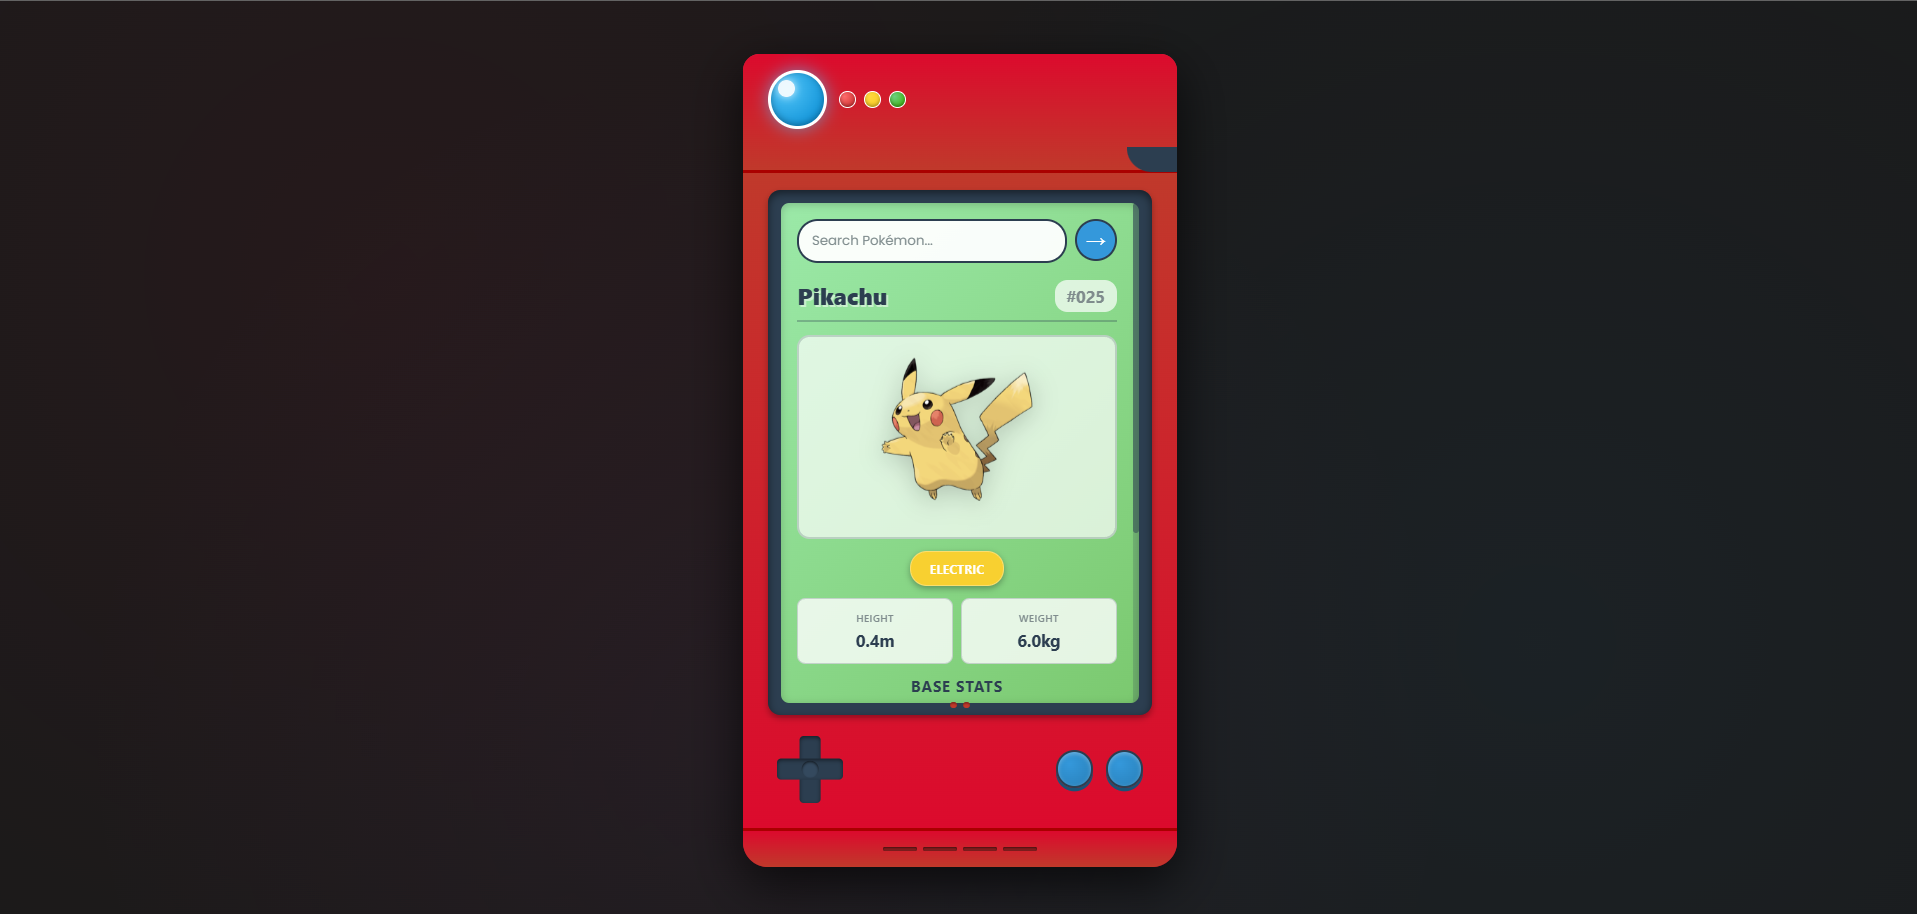
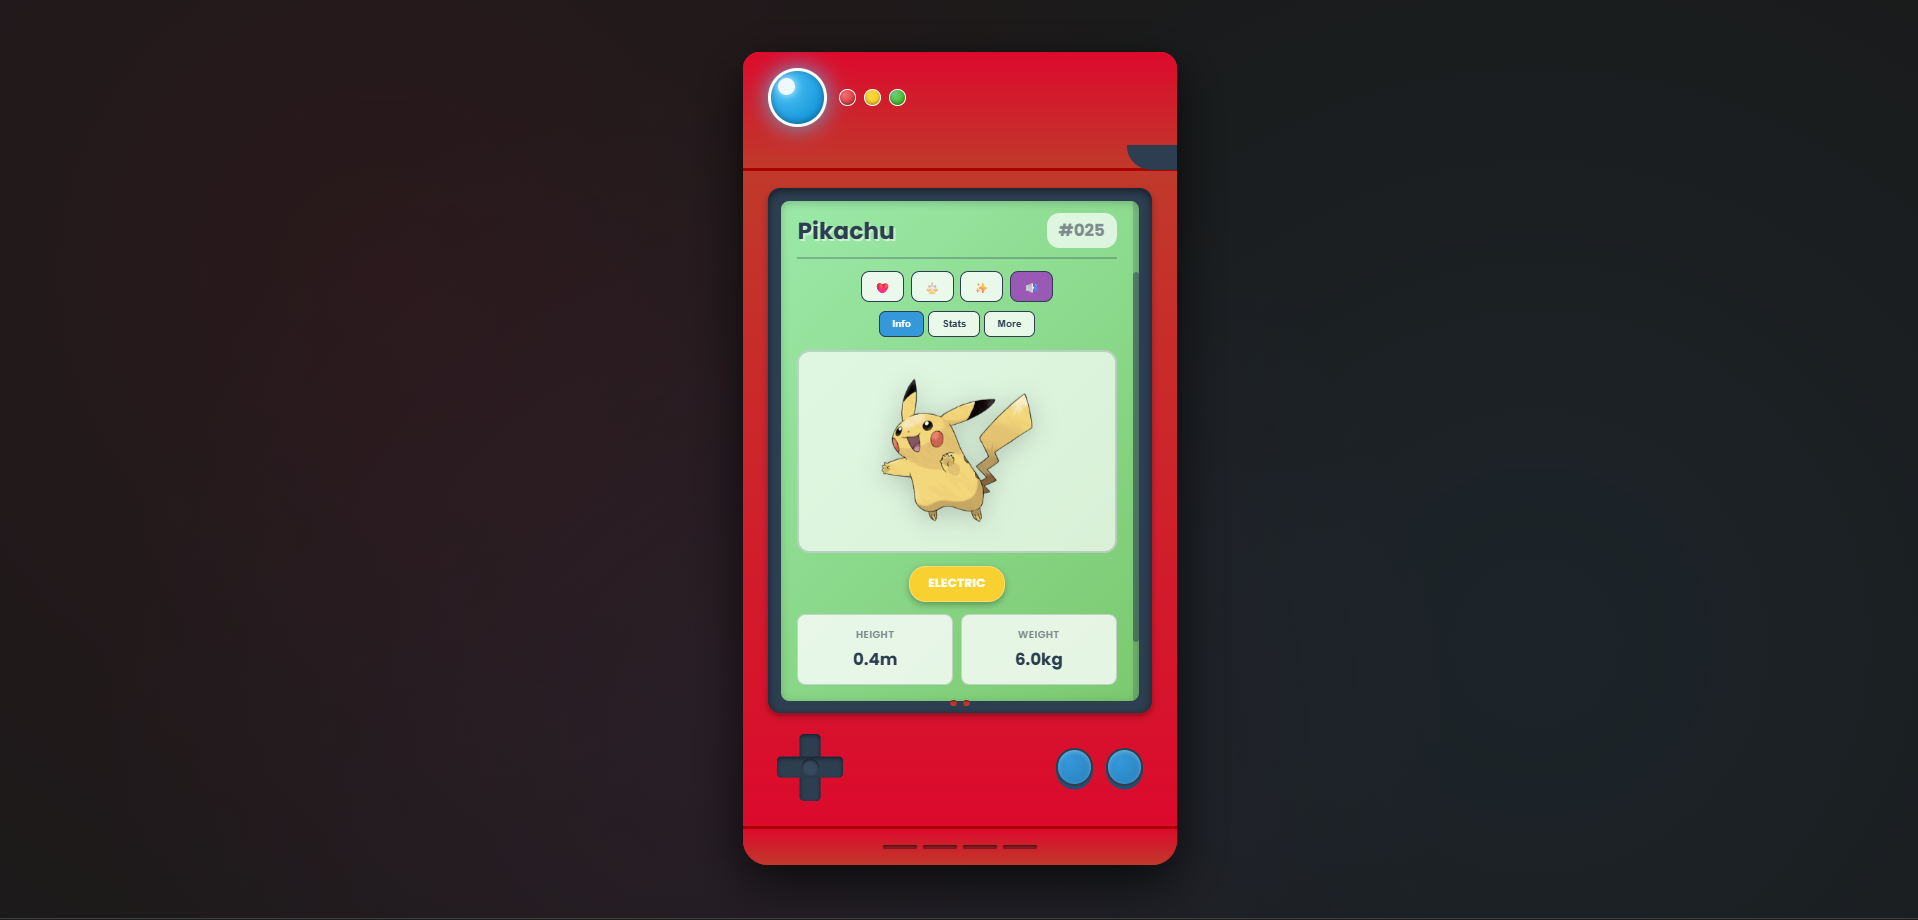
feat: add Weather App project
refactor: rework PokeSearch and Gacha projects
- updated project images
- minor details edits

Changed region(s): [[0.3693, 0.1532, 0.6155, 0.9497], [0.4001, 0.0306, 0.5848, 0.1532]]

diff --git a/src/data/projectsData.js b/src/data/projectsData.js
@@ -5,22 +5,30 @@ const projectsData = [
         title: "Food Ordering System",
         description: "A full-stack Food Ordering System built with the MERN stack and Vite.",
         image: ProjectsImg.FoodOrderingSystemImg,
-        techStack: ["MERN", "JWT", "Socket.IO", "RESTful API"],
+        techStack: ["MERN", "JWT", "Redux", "Socket.IO", "Cloudinary", "Axios", "Framer Motion"],
         githubLink: "https://github.com/VawnDyu/foodorderingsystem",
     },
     {
         title: "Capstone II Project",
-        description: "Payroll System with Generated QR Code for Employee Attendance Monitoring",
+        description: "Payroll System with Generated QR Code for Employee Attendance Monitoring.",
         image: ProjectsImg.Capstone2Img,
         techStack: ["SCSS", "Javascript", "PHP", "MySQL"],
         githubLink: "https://github.com/VawnDyu/Capstone-Project",
     },
     {
-      title: "Capstone I Project",
-      description: "Barangay Clearance System and Queuing System",
-      image: ProjectsImg.Capstone1Img,
-      techStack: ["VB.Net", "Crystal Reports", "MySQL"],
-      githubLink: "https://github.com/VawnDyu/Barangay-Clearance-System",
+        title: "Capstone I Project",
+        description: "Barangay Clearance System and Queuing System.",
+        image: ProjectsImg.Capstone1Img,
+        techStack: ["VB.Net", "Crystal Reports", "MySQL"],
+        githubLink: "https://github.com/VawnDyu/Barangay-Clearance-System",
+    },
+    {
+        title: "Weather App",
+        description: "A minimalist weather app providing real-time weather data for any city.",
+        image: ProjectsImg.WeatherAppImg,
+        techStack: ["React", "CSS", "Typescript", "Vite", "OpenWeatherMap API"],
+        liveLink: "https://vawndyu.github.io/weather-app",
+        githubLink: "https://github.com/VawnDyu/weather-app",
     },
     {
         title: "Moon Chess",
@@ -34,7 +42,7 @@ const projectsData = [
         title: "Pet Care Simulator",
         description: "A cute virtual pet simulator — feed, play, and rest with your digital companion!",
         image: ProjectsImg.PetCareSimImg,
-        techStack: ["React", "CSS", "Javascript", "Vite"],
+        techStack: ["React", "CSS", "Vite"],
         liveLink: "https://vawndyu.github.io/Pet-Care-Simulator",
         githubLink: "https://github.com/VawnDyu/Pet-Care-Simulator",
     },
@@ -47,41 +55,41 @@ const projectsData = [
     },
     {
         title: "Guess the Picture",
-        description: "Guess the Picture is a kid interactive game with timer and scoreboard",
+        description: "A kid interactive game with timer and scoreboard.",
         image: ProjectsImg.GTPImg,
-        techStack: ["React", "CSS", "Javascript", "Vite"],
+        techStack: ["React", "CSS", "Vite"],
         liveLink: "https://vawndyu.github.io/Guess-the-picture",
         githubLink: "https://github.com/VawnDyu/Guess-the-picture",
     },
     {
         title: "Doodle's Portfolio",
-        description: "Doodle's Commissioned Portfolio for Social Media Assets",
+        description: "Doodle's Commissioned Portfolio for Social Media Assets.",
         image: ProjectsImg.DoodleImg,
-        techStack: ["React", "CSS", "Javascript", "Vite"],
+        techStack: ["HTML", "CSS", "Javascript"],
         liveLink: "https://vawndyu.github.io/Doodles-Portfolio",
         githubLink: "https://github.com/VawnDyu/Doodles-Portfolio",
     },
     {
-        title: "Poke-Search",
-        description: "A PokeDex that you can search any pokemon you want.",
+        title: "PokéSearch",
+        description: "A PokéDex that you can search any pokemon you want.",
         image: ProjectsImg.PokeSearchImg,
-        techStack: ["React", "Vite", "PokeAPI"],
+        techStack: ["React", "CSS", "Vite", "PokeAPI"],
         liveLink: "https://vawndyu.github.io/PokeSearch",
         githubLink: "https://github.com/VawnDyu/PokeSearch",
     },
     {
-        title: "Gacha",
-        description: "A Gacha game that counts the amount of your gacha pulls.",
+        title: "Gacha Simulator",
+        description: "A gacha simulator with item pulls, selling, and achievement unlocking.",
         image: ProjectsImg.GachaImg,
-        techStack: ["React", "CSS", "Javascript"],
+        techStack: ["React", "CSS", "Vite"],
         liveLink: "https://vawndyu.github.io/Gacha",
         githubLink: "https://github.com/VawnDyu/Gacha",
     },
     {
         title: "Vonne Dew's Portfolio",
-        description: "A personal portfolio website built with React.",
+        description: "A personal portfolio showcasing my skills, projects, and experience as a developer.",
         image: ProjectsImg.MyPortfolioImg,
-        techStack: ["React", "CSS", "Javascript", "Vite"],
+        techStack: ["React", "CSS", "Vite"],
         liveLink: "https://vawndyu.github.io",
         githubLink: "https://github.com/VawnDyu/vawndyu.github.io",
     },

diff --git a/src/imports.jsx b/src/imports.jsx
@@ -21,6 +21,7 @@ import ExpressJSImg from './assets/expressjS.svg';
 import FoodOrderingSystemImg from './images/FoodOrderingSystem.png';
 import Capstone2Img from './images/capstone.png';
 import Capstone1Img from './images/bcqsystem.png';
+import WeatherAppImg from './images/weatherapp.png';
 import MoonChessImg from './images/moonchess.png';
 import PetCareSimImg from './images/petcaresimulator.png';
 import DatingSimImg from './images/datingsimulatorgame.png';
@@ -34,6 +35,7 @@ import MyPortfolioImg from './images/vonnedewportfolio.png';
 export const ProjectsImg = {
   Capstone2Img,
   Capstone1Img,
+  WeatherAppImg,
   MoonChessImg,
   PetCareSimImg,
   DatingSimImg,

diff --git a/src/pages/Projects.jsx b/src/pages/Projects.jsx
@@ -19,10 +19,10 @@ function Projects() {
           );
         }
         if (filter === 'Games') {
-          return ['Moon Chess', 'Pet Care Simulator', 'Visual Novel Game', 'Gacha'].includes(project.title);
+          return ['Moon Chess', 'Pet Care Simulator', 'Visual Novel Game', 'Gacha', 'Guess the Picture'].includes(project.title);
         }
         if (filter === 'Tools') {
-          return ['Guess the Picture', 'Poke-Search'].includes(project.title);
+          return ['PokéSearch', 'Weather App'].includes(project.title);
         }
         return true;
       });
